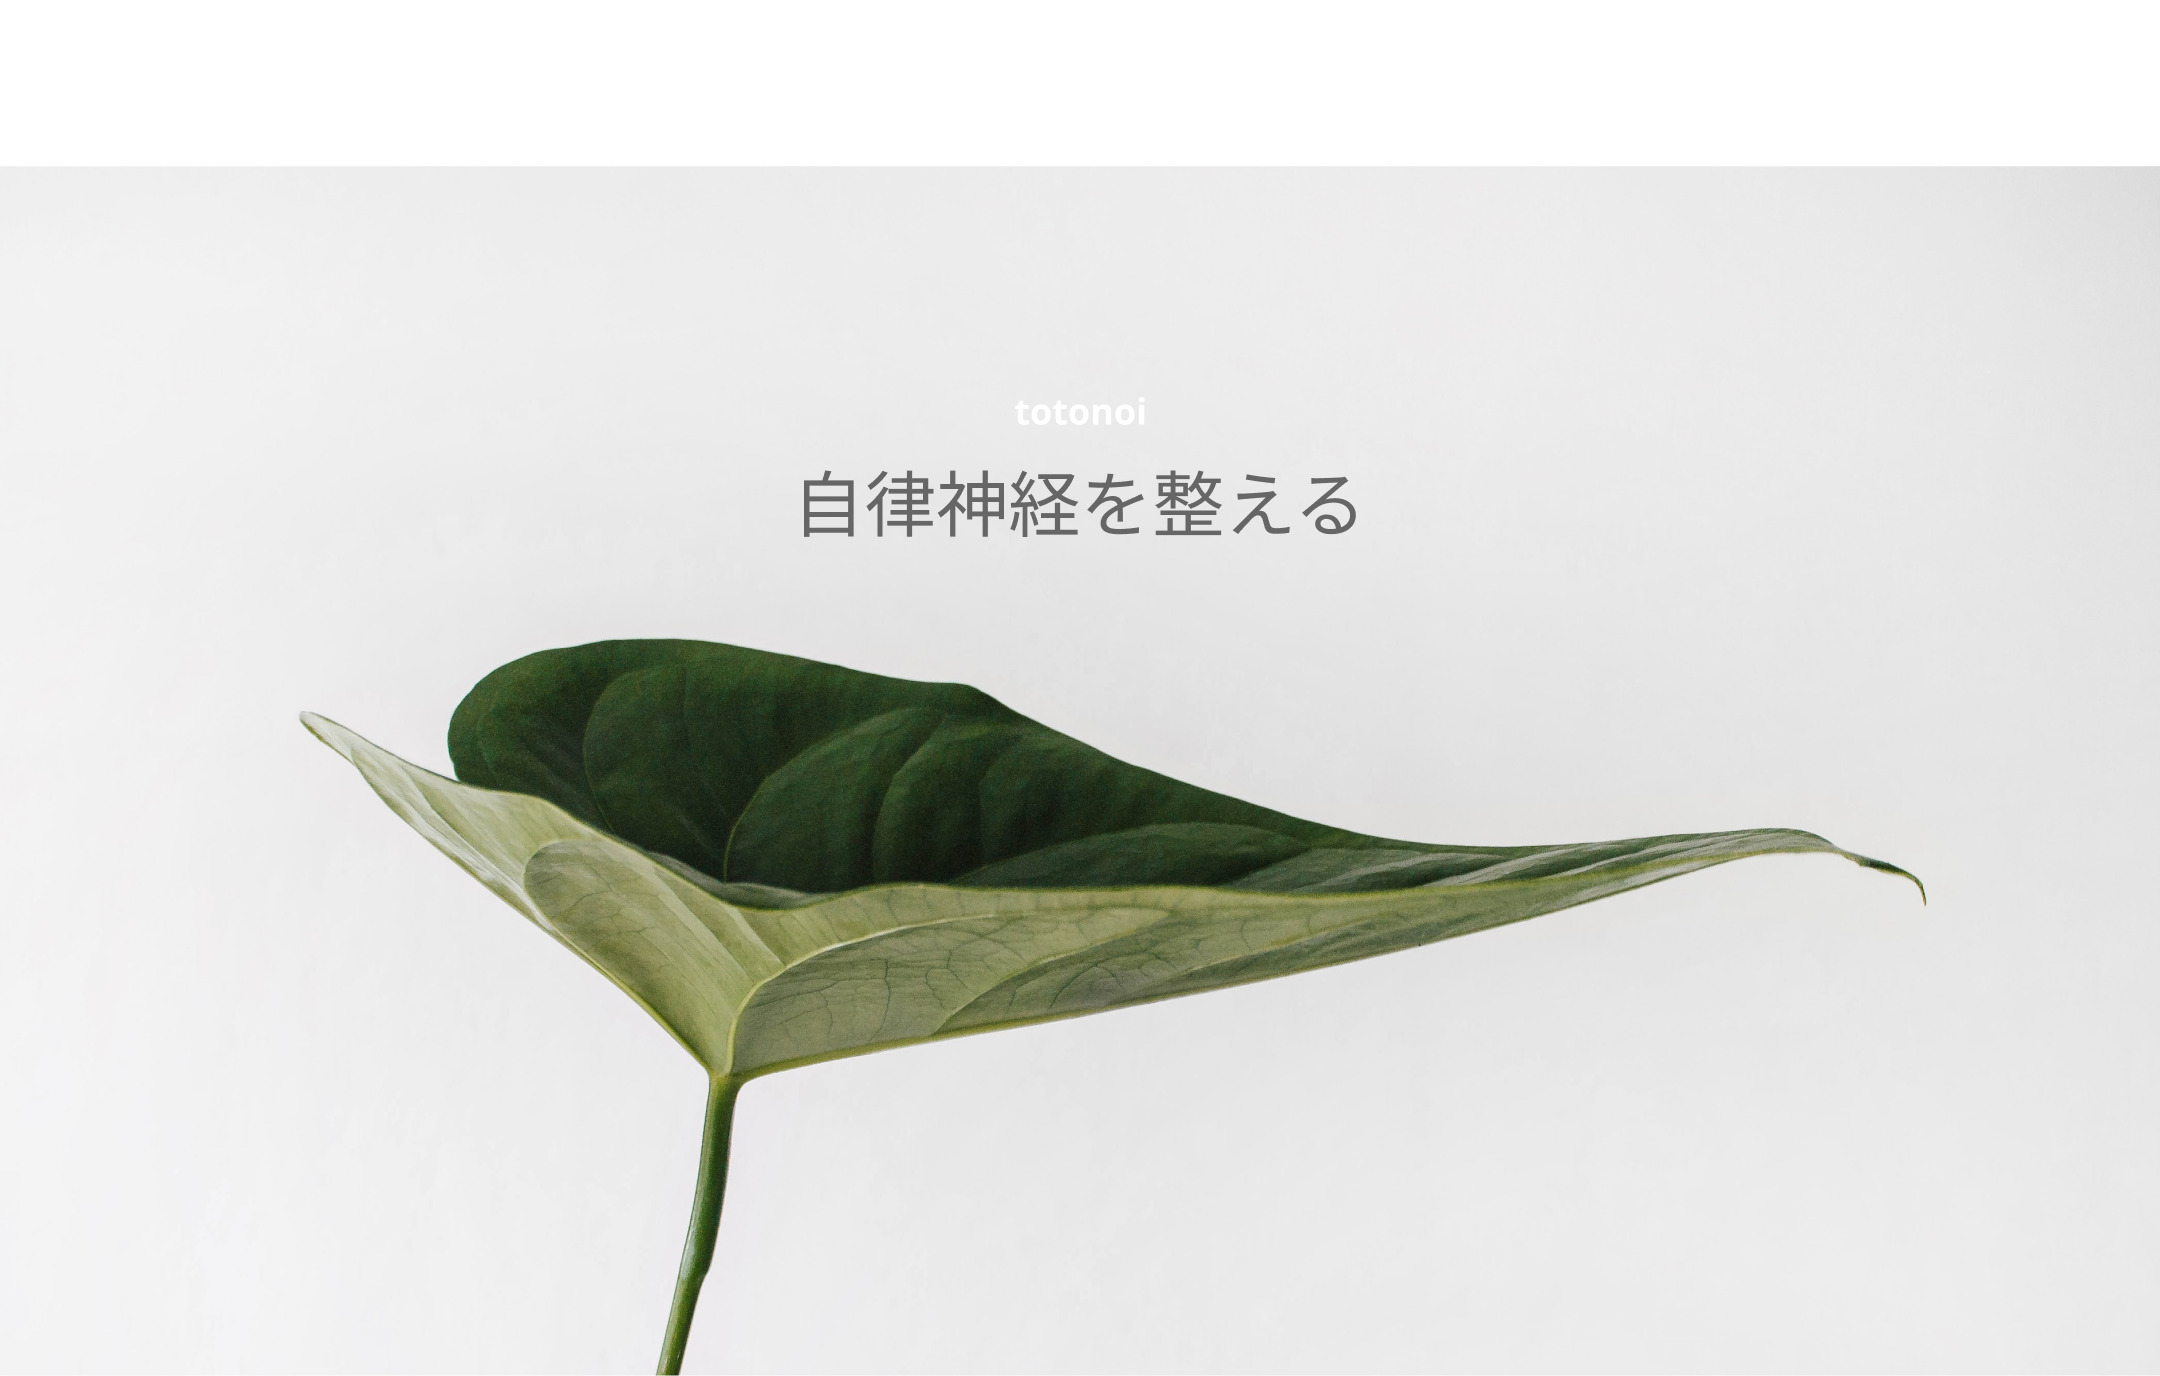
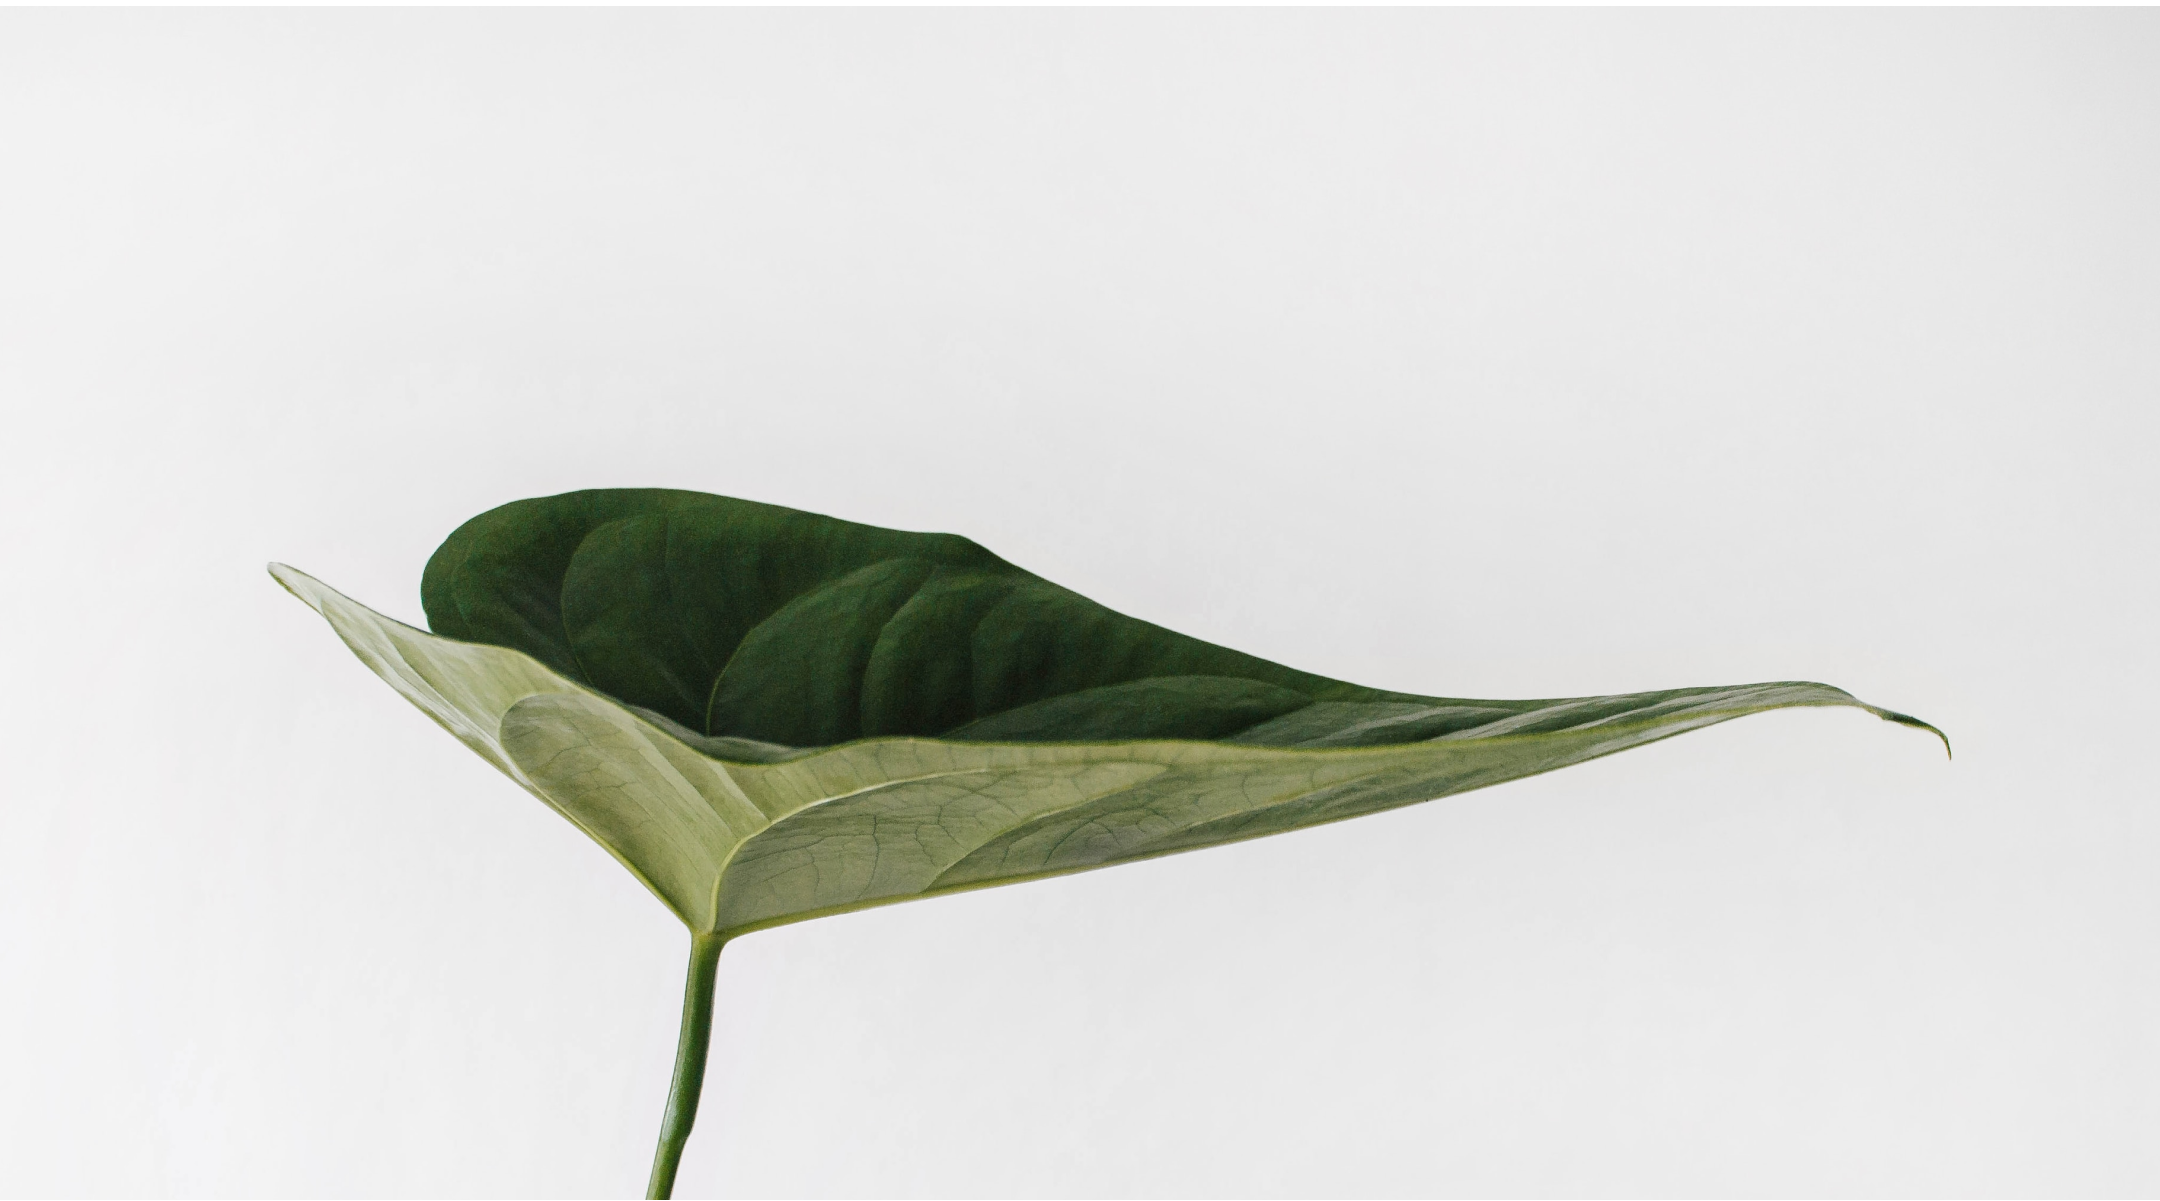
hero.pngを文字なしの写真に変更

Changed region(s): [[0.1241, 0.4005, 0.8995, 1.0], [0.3722, 0.3389, 0.6204, 0.4005], [0.8995, 0.0, 1.0, 0.1232]]

diff --git a/src/components/Content.jsx b/src/components/Content.jsx
@@ -1,5 +1,5 @@
 import styled from "styled-components";
-import hereImg from "../assets/images/hero.png"
+import heroImg from "../assets/images/hero.png"
 import question1Img from "../assets/images/question1.png"
 import {useState} from "react";
 import {QuestionNo1} from "./content/QuestionNo1";
@@ -28,7 +28,7 @@ export const Content = () =>{
 const ContentImg = (questionFlag) => {
   switch (questionFlag) {
     case true:
-      return hereImg;
+      return heroImg;
     case false:
       return question1Img;
     default:
